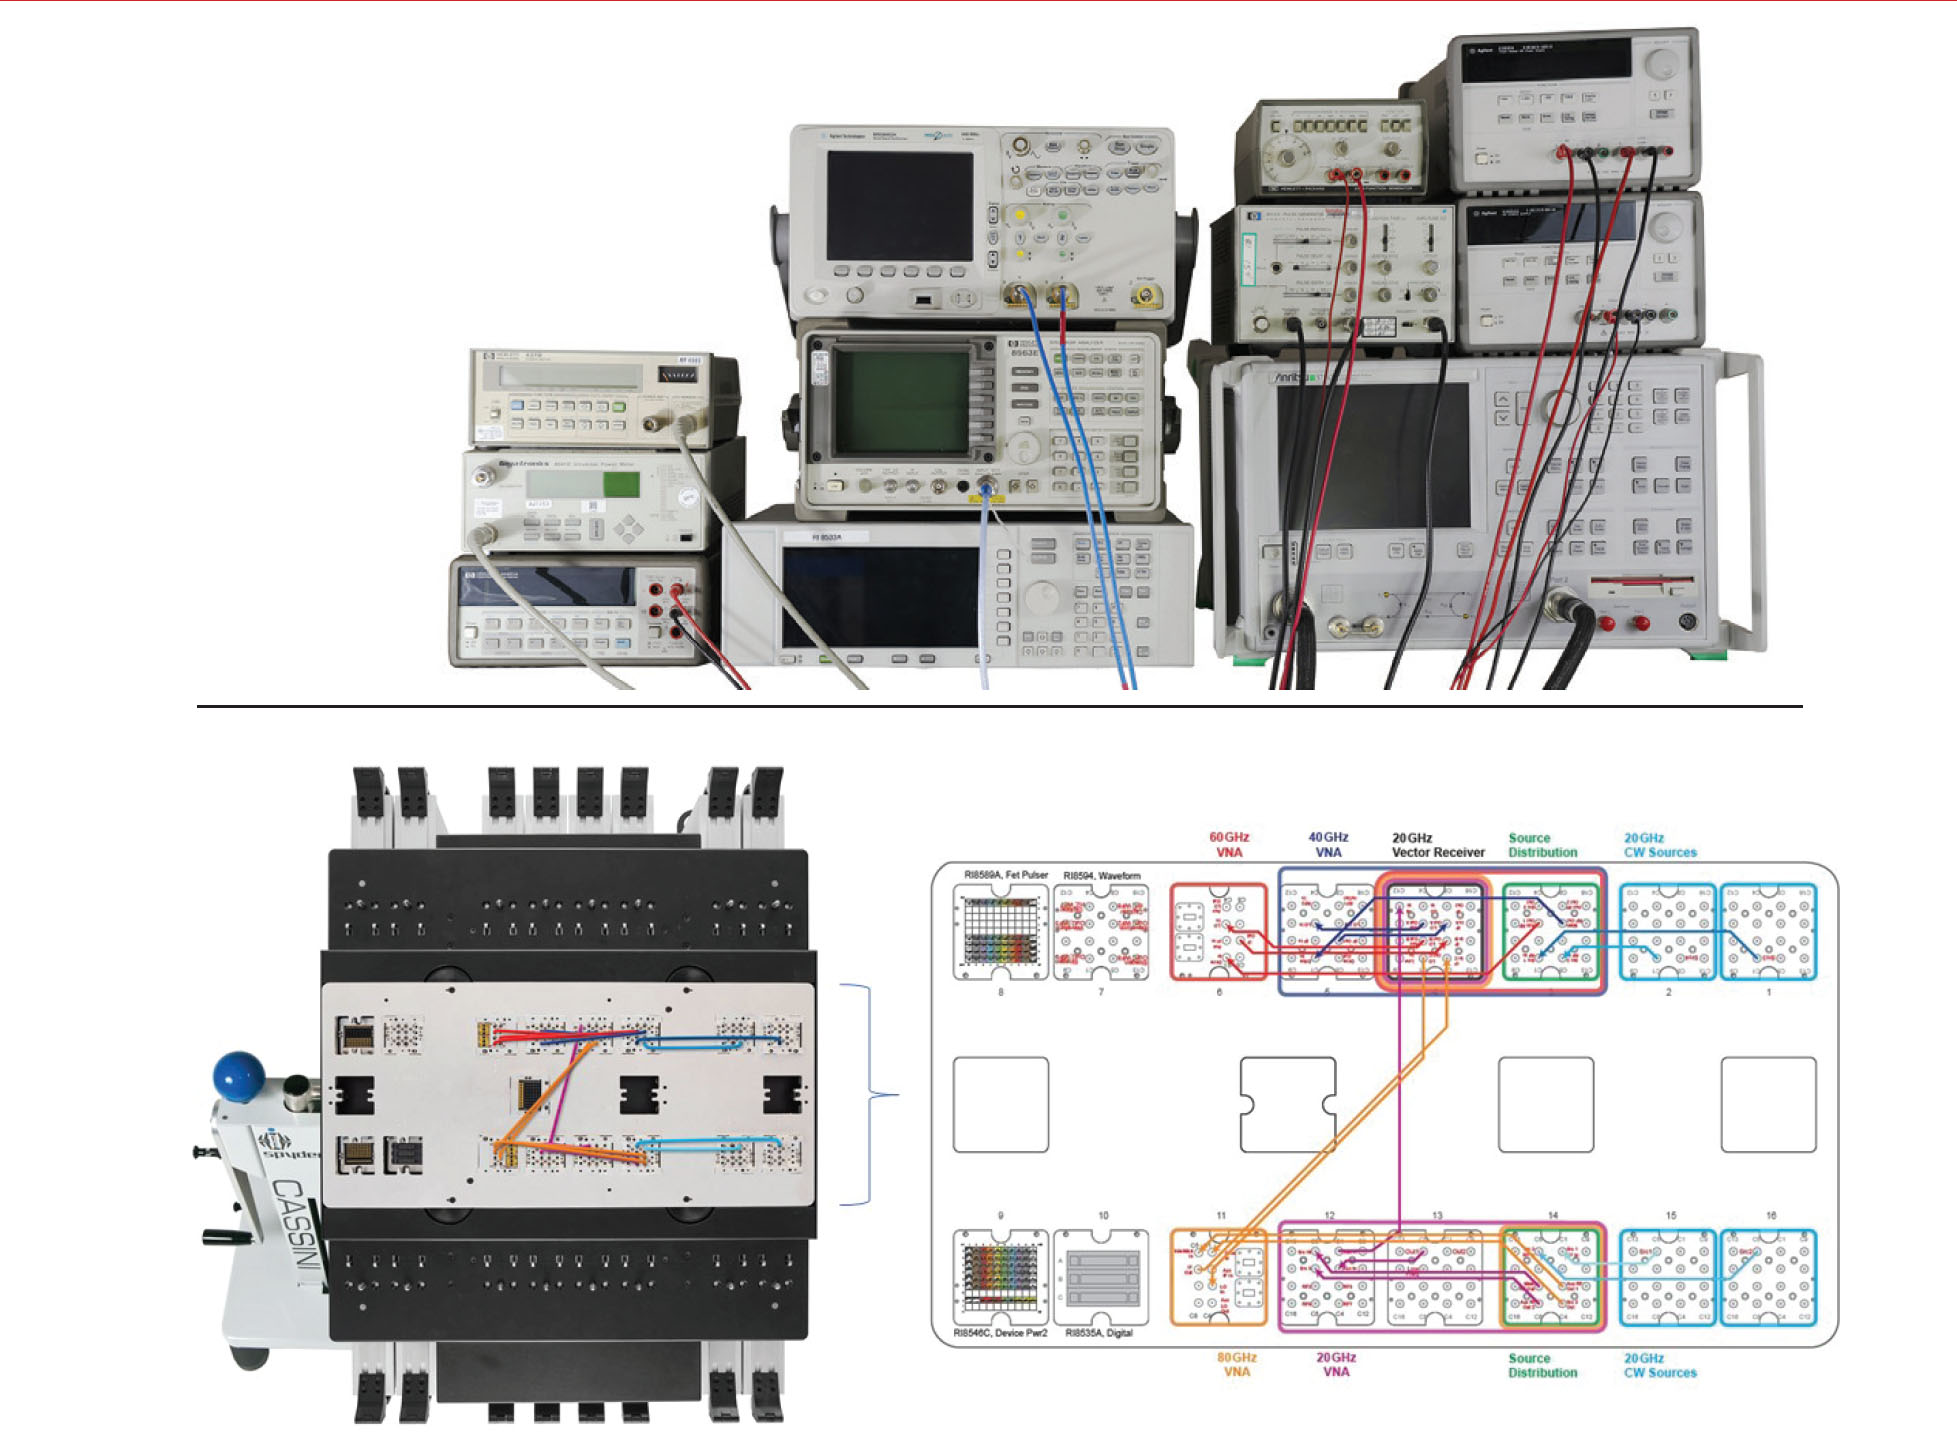
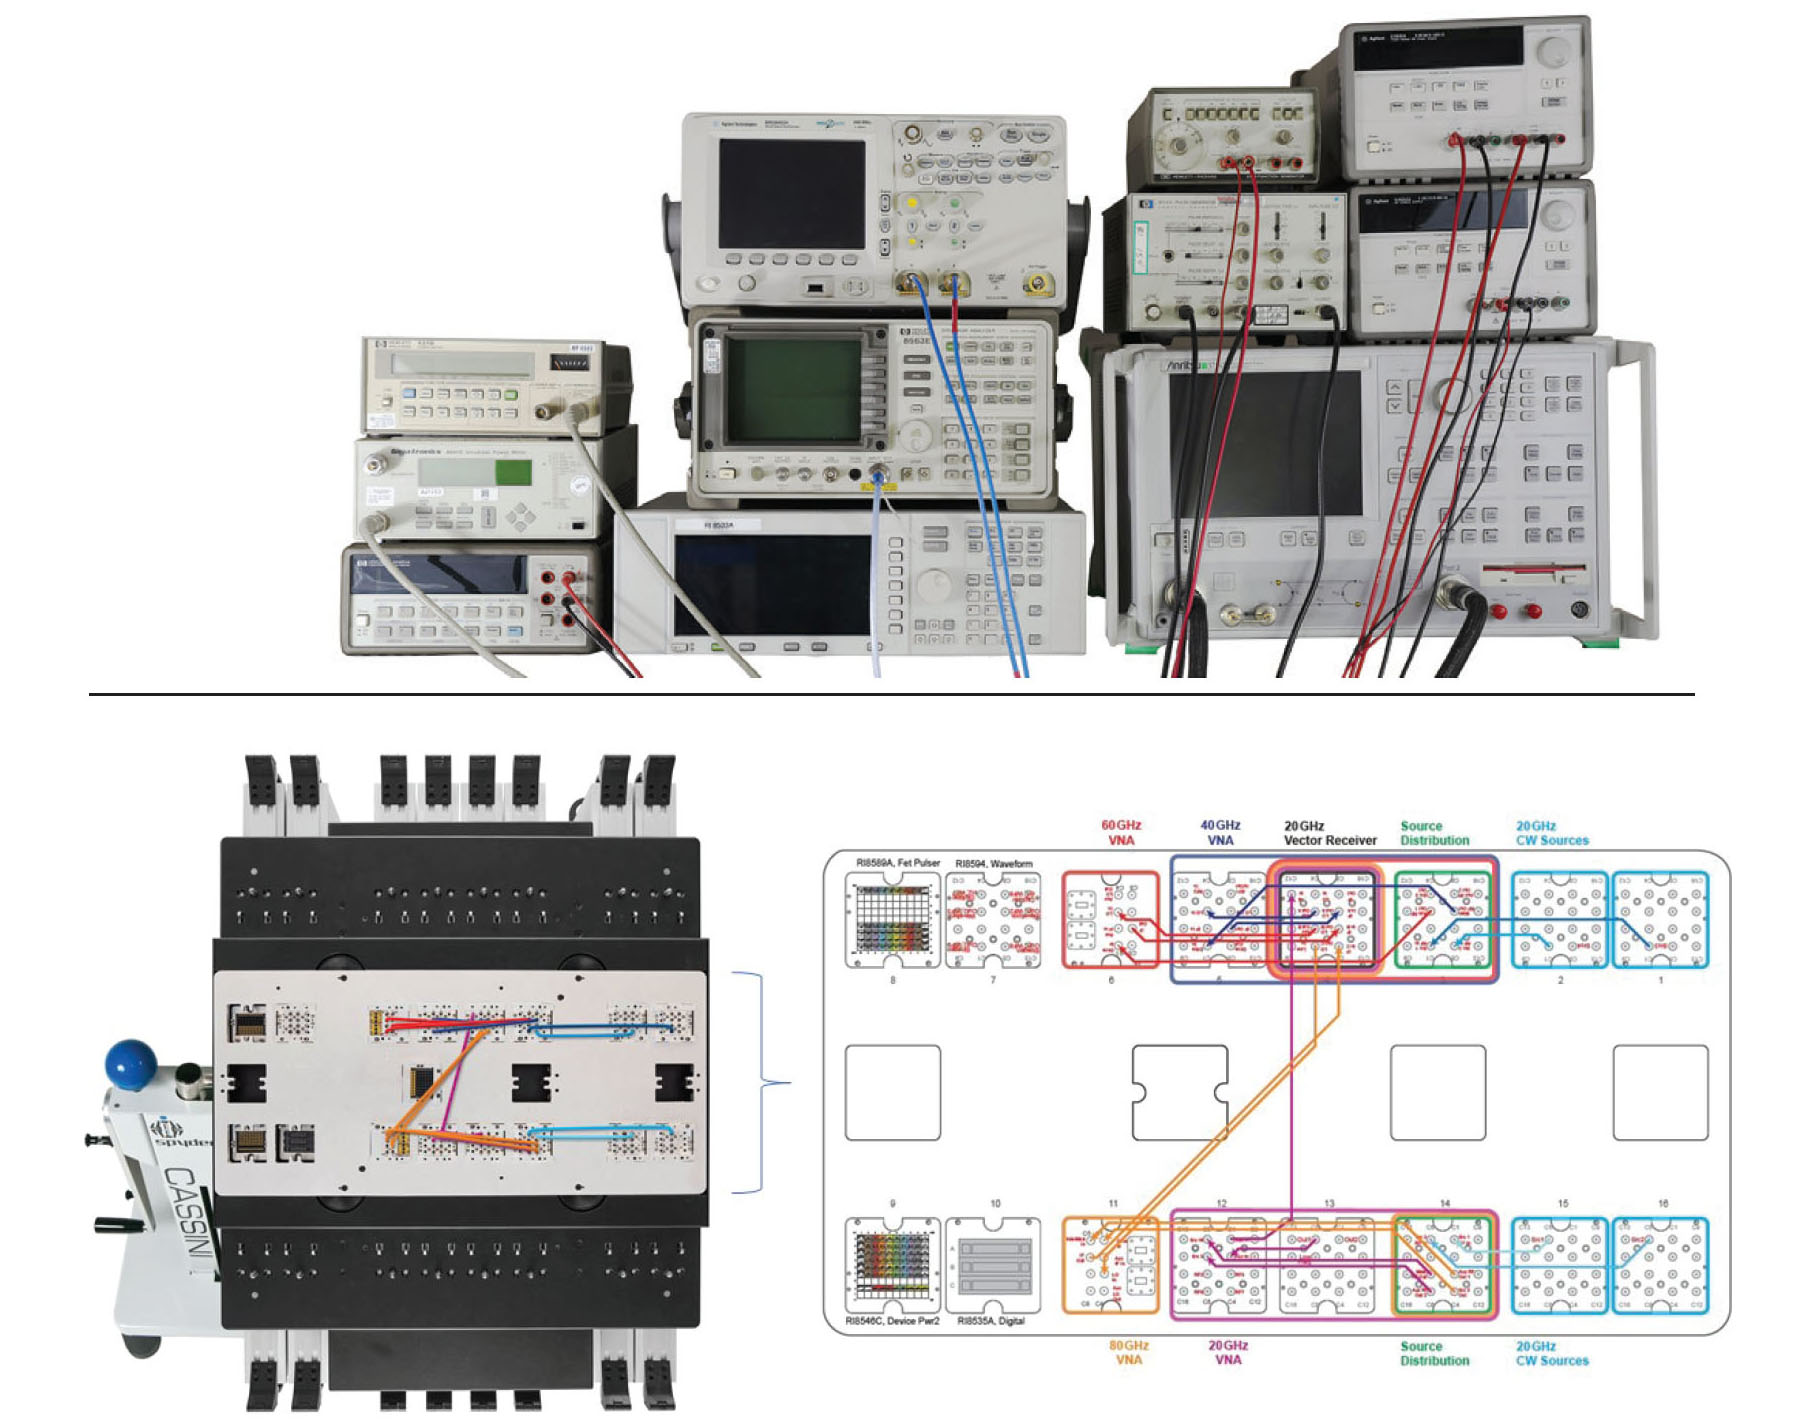
reflow article, compress images

Changed region(s): [[0.031, 0.5253, 0.9596, 1.0], [0.0929, 0.0, 0.9287, 0.4944]]

diff --git a/src/article_mmwave_journal_march2020.html b/src/article_mmwave_journal_march2020.html
@@ -408,7 +408,7 @@
         <div id="content" class="roosC container">
             <div class="row">
                 <div class="col-sm-4">
-                    <p>
+                    <p style="text-align: center;">
                         <a class="btn btn-primary btn-lg" href="/pdf/MicrowaveJournal_March2020-Advancing-mmWave.pdf"><i
                                 class="far fa-file-pdf" aria-hidden="true"></i>Read Article</a>
                     </p>
@@ -418,26 +418,25 @@
                                 alt="Microwave Journal March 2020 Techical Feature">
                         </a>
                     </p>
-                    <p> <a href="/company.html#ceo">Mark Roos</a><br>
-                        <i>Roos Instruments, Santa Clara, Calif.</i>
-                    </p>
                     <p>The automated test and measurement landscape is rapidly changing, progressing
                         beyond the capabilities of traditional bench-top and most legacy
                         <abbr title="Automated Test Equipment">ATE</abbr> systems. Varying and
                         diverse performance requirements, testing speeds and frequencies used by modern cellular
                         architectures (5G), Internet-of-Things (IoT) devices, and the latest feature dense
                         systems-on-chip/systems-in-package (SoC/SiP) necessitate a different approach.</p>
+                    <p style="text-align: right;"> <a href="/company.html#ceo">Mark Roos</a><br>
+                        <i>Roos Instruments, Santa Clara, Calif.</i>
+                    </p>
                     <p>
                         <i class="fas fa-link"></i>
                         <a target="_blank"
                             href="https://www.microwavejournal.com/articles/33612-advancing-ate-strategy-for-mmwave-mass-market-production?page=1">
-                            Visit MicrowaveJournal.com</a>*
+                            Visit MicrowaveJournal.com</a> (free registration needed)
                         <span class="hidden"><br>
                             <i class="fas fa-link"></i> <a
                                 href="http://digital.microwavejournal.com/?issueID=29&pageID=58" target="_new">Visit the
                                 online edition</a>* of Microwave Journal March 2020 (page
                             58)<br></span>
-                        *free site registration required
                     </p>
                 </div>
                 <div class="col-sm-8">
@@ -446,20 +445,18 @@
                         &nbsp; <a class="btn-primary btn-lg" href="mailto:sales@roos.com"><i class="fas fa-envelope"
                                 aria-hidden="true"></i>&nbsp;&nbsp;Email Sales</a>
                     </p>
+                    <hr class="space">
                     <p> Cassini leverages a modular configuration focused on precise calibration, low loss device
                         connections and high measurement accuracy with a small footprint and low capital expense.
-                        Cassini's Modular architecture can provide future proof features and enable ATE systems to be
-                        faster and more accurate with less development. Even at mmWave frequencies, Cassini matches the
-                        performance of the bench-top units they typically replace.</p>
-
+                        Cassini's Modular architecture can provide future proof features and enable
+                        <abbr title="Automated Test Equipment">ATE</abbr> systems to be faster and more accurate with
+                        less development. Even at mmWave frequencies, Cassini matches the performance of the bench-top
+                        units they typically replace.</p>
                     </p>
                     <p>
                         <a href="/products.html">
-                            <img src="/images/legacy_to_production.jpg" title="Legacy to Production">
+                            <img src="/images/legacy_to_production.png" title="Legacy to Production">
                         </a>
-                    </p>
-                    <p><a href="/products.html">Learn More</a> about Cassini and please reach out to
-                        <a href="mailto:sales@roos.com?subject=mmWave Testing">sales@roos.com</a> for more information.
                     </p>
                 </div>
             </div>
